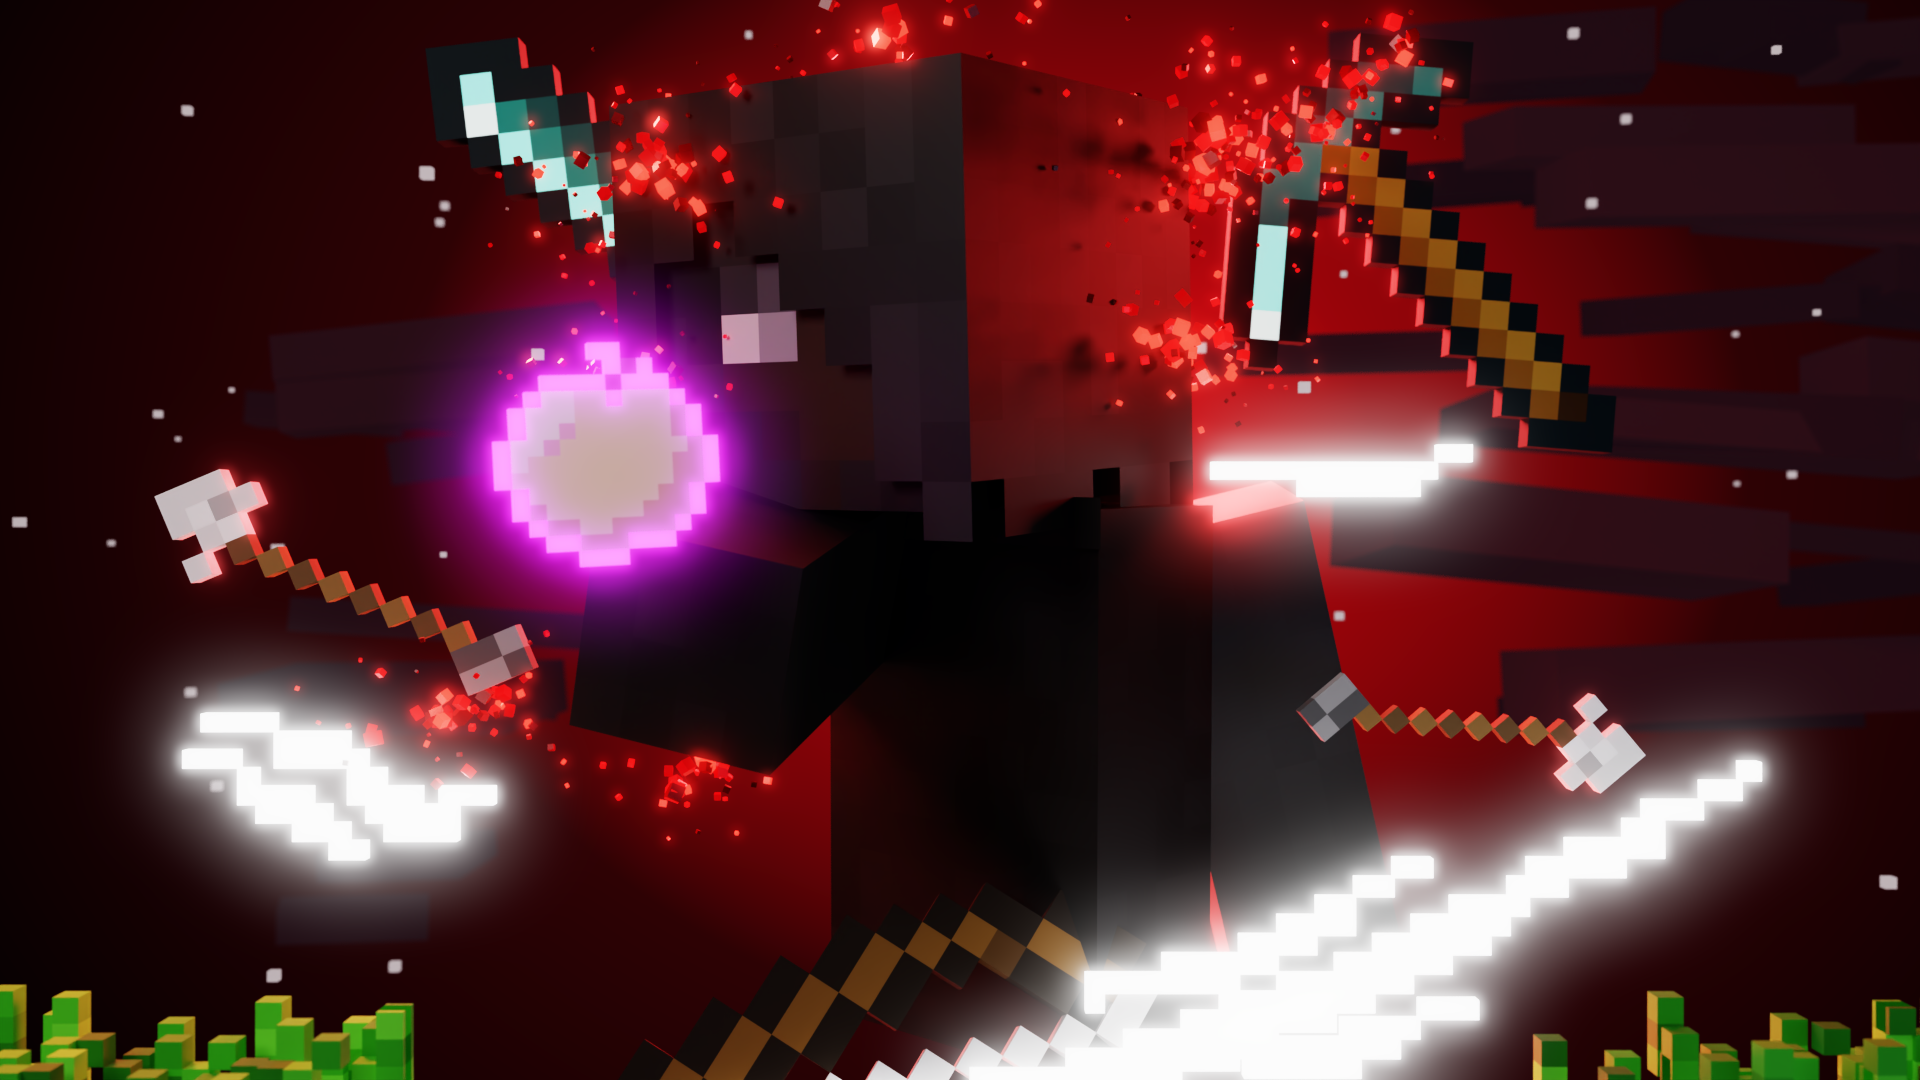
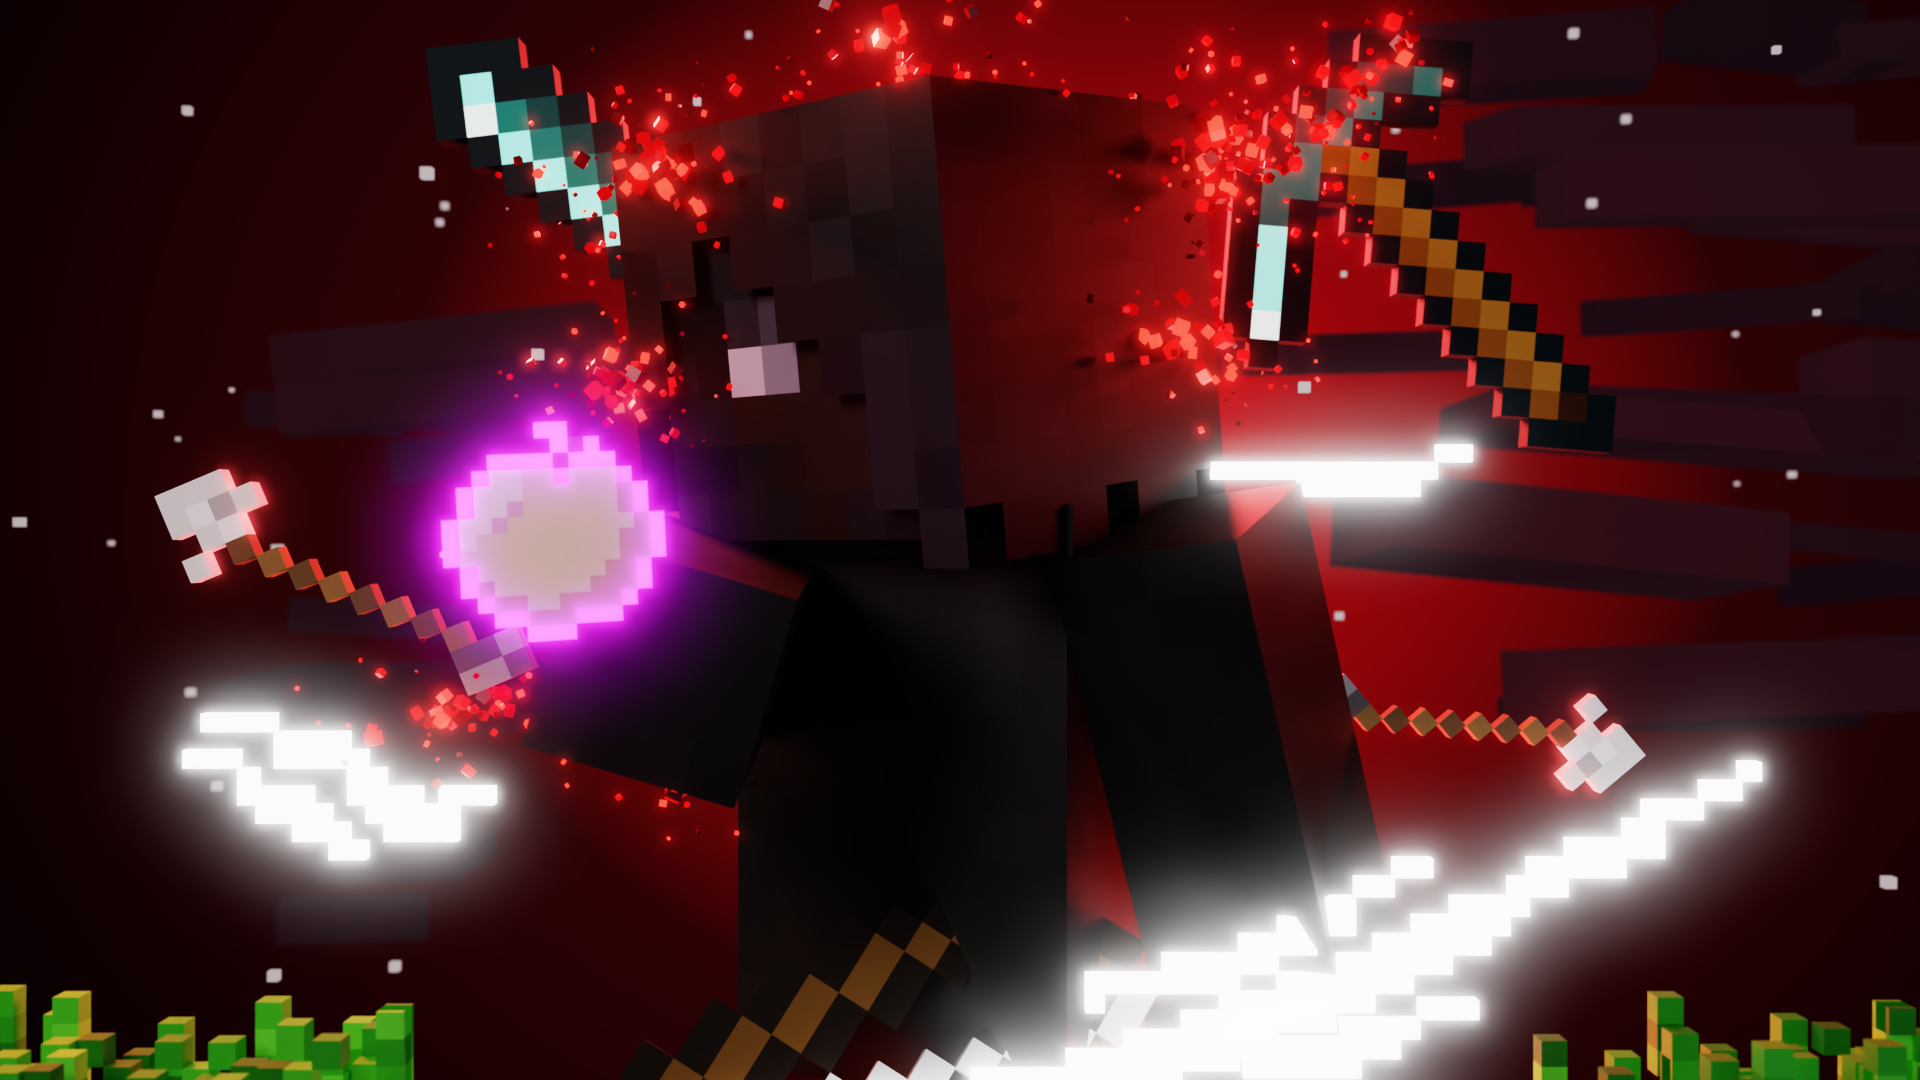
Use a connected rig so head and arms attach to the body
Claude-Session: https://claude.ai/code/session_01N6Pm32TxQnQyfXV1Su8Tkh

diff --git a/thumbnail/blender/scene.py b/thumbnail/blender/scene.py
@@ -169,8 +169,8 @@ def skin_box(name, w, h, d, u, v, inflate=0.0, pivot_y=0.0):
     return bpy.data.objects.new(name, me)
 
 
-def part(name, w, h, d, uv, ov, inflate, pivot_y=0.0):
-    holder = link(bpy.data.objects.new(name, None))
+def part(name, w, h, d, uv, ov, inflate, pivot_y=0.0, parent=root):
+    holder = link(bpy.data.objects.new(name, None), parent)
     link(skin_box(name + '_base', w, h, d, *uv, 0, pivot_y), holder)
     link(skin_box(name + '_layer', w, h, d, *ov, inflate, pivot_y), holder)
     return holder
@@ -209,27 +209,38 @@ def voxel_sprite(name, sprite, emit=0.0, emit_chars=None, emit_strength=2.0):
 
 
 # ------------------------------------------------------------------- character
-head = part('head', 8, 8, 8, (0, 0), (32, 0), 0.5)
-place(head, (fx(0.475), fy(0.29), 0), (0.1, -0.6, 0.03))
+# Connected rig: body at the character origin, head on the neck, arms on the shoulders.
+CHAR_YAW = -0.5
+HEAD_ROT = (0.12, -0.2, 0.03)              # pitch down a little, look further left
+ARM_R_ROT = (-1.65, 0.3, 0.55)            # raised forward/up toward the apple
+ARM_L_ROT = (0.3, 0.0, 0.12)               # hanging slightly back
 
-body = part('body', 8, 12, 4, (16, 16), (16, 32), 0.25)
-place(body, (fx(0.53), fy(0.29) - 10.1, -1.5), (0.05, -0.75, 0))
+char = link(bpy.data.objects.new('character', None))
+char_pos = Vector((fx(0.49), fy(0.31) - 10, 0))
+place(char, tuple(char_pos), (0, CHAR_YAW, 0))
+
+part('body', 8, 12, 4, (16, 16), (16, 32), 0.25, 0, char)
+head = part('head', 8, 8, 8, (0, 0), (32, 0), 0.5, 4, char)
+place(head, (0, 6, 0), HEAD_ROT)
+arm_r = part('arm_r', 4, 12, 4, (40, 16), (40, 32), 0.25, -4, char)
+place(arm_r, (-6, 4, 0), ARM_R_ROT)
+arm_l = part('arm_l', 4, 12, 4, (32, 48), (48, 48), 0.25, -4, char)
+place(arm_l, (6, 4, 0), ARM_L_ROT)
 
 
-def limb(name, uv, ov, shoulder, direction):
-    a = part(name, 4, 12, 4, uv, ov, 0.25, -6)
-    a.location = shoulder
-    a.rotation_mode = 'QUATERNION'
-    a.rotation_quaternion = Vector((0, -1, 0)).rotation_difference(Vector(direction).normalized())
-    return a
+def rig_point(local, joint, joint_rot):
+    """Layout-space position of a point given in a joint's local space."""
+    m_char = Euler((0, CHAR_YAW, 0), 'ZYX').to_matrix()
+    m_joint = Euler(joint_rot, 'ZYX').to_matrix()
+    return char_pos + m_char @ (Vector(joint) + m_joint @ Vector(local))
 
 
-limb('arm_r', (40, 16), (40, 32), (-2.5, 0.3, -5), (-2.7, -2.4, 12))
-limb('arm_l', (32, 48), (48, 48), (fx(0.64), fy(0.47), -3.5), (0.25, -1, -0.15))
+hand = rig_point((0, -10.5, 0), (-6, 4, 0), ARM_R_ROT)
+print('head centre', rig_point((0, 4, 0), (0, 6, 0), HEAD_ROT), 'hand', hand)
 
 # --------------------------------------------------------------------- items
 apple = voxel_sprite('apple', APPLE, emit=0.15, emit_chars='kKl', emit_strength=6)
-place(apple, (fx(0.315) * 31 / 40, fy(0.42) * 31 / 40, 9), (0, 0.35, 0.05), 0.27)
+place(apple, tuple(hand + Vector((-1.6, 2.6, 0.8))), (0, 0.35, 0.05), 0.27)
 
 sword = voxel_sprite('sword', SWORD, emit=0.0, emit_chars='LW', emit_strength=0.8)
 place(sword, (fx(0.35) * 1.15, fy(0.25) * 1.15, -6), (0, 0, math.pi / 2 + 0.12), 0.78)
